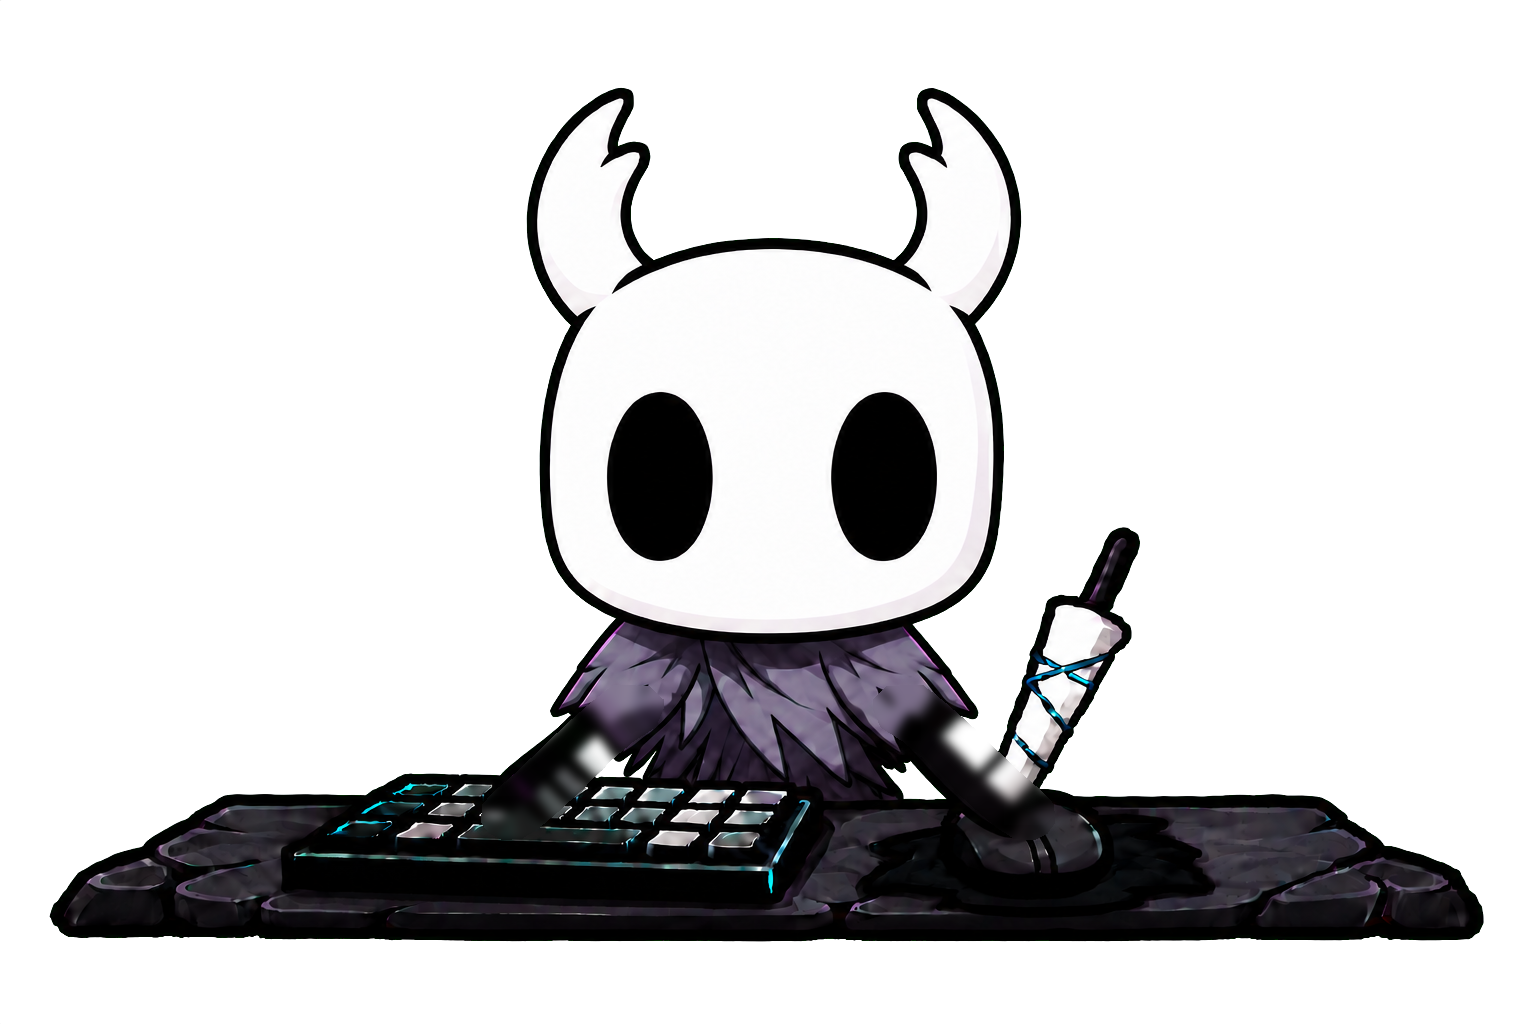
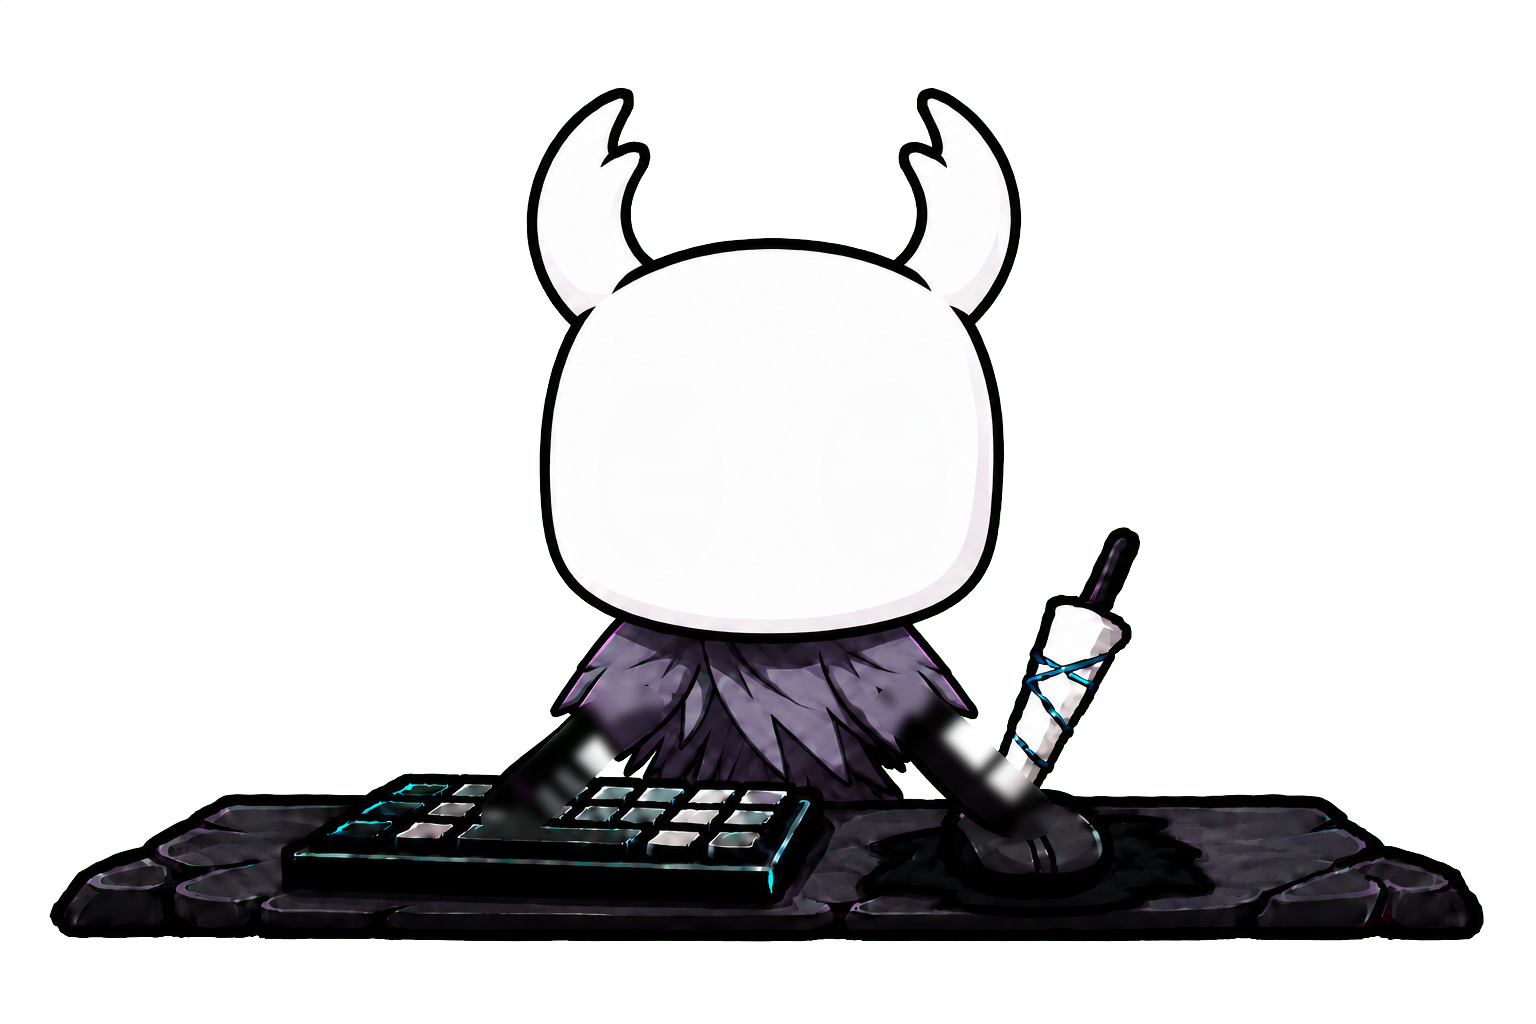
feat: add vessel blink and windows build

Changed region(s): [[0.375, 0.375, 0.4688, 0.5625], [0.5312, 0.375, 0.625, 0.5625]]

diff --git a/src/utils/spritePet.ts b/src/utils/spritePet.ts
@@ -15,6 +15,13 @@ interface SpriteLayerConfig {
   Pivot?: [number, number]
   Parameters?: string[]
   Pressed?: PressedTransform
+  Blink?: boolean
+}
+
+interface BlinkConfig {
+  Interval?: [number, number]
+  Duration?: number
+  ScaleY?: number
 }
 
 export interface SpritePetManifest {
@@ -28,6 +35,7 @@ export interface SpritePetManifest {
     Amplitude?: number
     Period?: number
   }
+  Blink?: BlinkConfig
   Layers: SpriteLayerConfig[]
 }
 
@@ -35,7 +43,8 @@ interface AnimatedLayer {
   sprite: Sprite
   pivot: [number, number]
   parameters: string[]
-  pressed: Required<PressedTransform>
+  pressed?: Required<PressedTransform>
+  blink: boolean
   amount: number
 }
 
@@ -59,6 +68,7 @@ export class SpritePet {
   private readonly parameters = new Map<string, number>()
   private readonly animatedLayers: AnimatedLayer[] = []
   private elapsed = 0
+  private nextBlinkAt = 0
 
   private constructor(
     private readonly manifest: SpritePetManifest,
@@ -66,6 +76,7 @@ export class SpritePet {
     this.width = manifest.Canvas.Width
     this.height = manifest.Canvas.Height
     this.root.addChild(this.content)
+    this.nextBlinkAt = this.randomBlinkInterval()
   }
 
   public static async create(path: string, manifest: SpritePetManifest) {
@@ -80,20 +91,20 @@ export class SpritePet {
       sprite.position.set(...pivot)
       pet.content.addChild(sprite)
 
-      if (!layer.Parameters?.length || !layer.Pressed) continue
-
-      for (const parameter of layer.Parameters) {
+      for (const parameter of layer.Parameters ?? []) {
         pet.parameters.set(parameter, 0)
       }
+
+      if (!layer.Pressed && !layer.Blink) continue
 
       pet.animatedLayers.push({
         sprite,
         pivot,
-        parameters: layer.Parameters,
-        pressed: {
-          ...DEFAULT_TRANSFORM,
-          ...layer.Pressed,
-        },
+        parameters: layer.Parameters ?? [],
+        pressed: layer.Pressed
+          ? { ...DEFAULT_TRANSFORM, ...layer.Pressed }
+          : undefined,
+        blink: layer.Blink ?? false,
         amount: 0,
       })
     }
@@ -105,9 +116,9 @@ export class SpritePet {
 
   private update = (ticker: Ticker) => {
     const deltaSeconds = ticker.deltaMS / 1000
-    const smoothing = 1 - Math.exp(-18 * deltaSeconds)
 
     this.elapsed += deltaSeconds
+    const blinkAmount = this.getBlinkAmount()
 
     const amplitude = this.manifest.Idle?.Amplitude ?? 0
     const period = this.manifest.Idle?.Period ?? 3
@@ -117,26 +128,52 @@ export class SpritePet {
       : 0
 
     for (const layer of this.animatedLayers) {
-      const target = Math.max(
-        ...layer.parameters.map(parameter => this.parameters.get(parameter) ?? 0),
-      )
+      const target = layer.parameters.length
+        ? Math.max(
+            ...layer.parameters.map(parameter => this.parameters.get(parameter) ?? 0),
+          )
+        : 0
+      const response = target > layer.amount ? 30 : 14
+      const smoothing = 1 - Math.exp(-response * deltaSeconds)
 
       layer.amount += (target - layer.amount) * smoothing
 
       const { sprite, pivot, pressed, amount } = layer
-      const [translateX, translateY] = pressed.Translate
-      const [scaleX, scaleY] = pressed.Scale
+      const [translateX, translateY] = pressed?.Translate ?? [0, 0]
+      const [scaleX, pressedScaleY] = pressed?.Scale ?? [1, 1]
+      const blinkScaleY = this.manifest.Blink?.ScaleY ?? 0.06
+      const scaleY = (1 + (pressedScaleY - 1) * amount)
+        * (layer.blink ? 1 + (blinkScaleY - 1) * blinkAmount : 1)
 
       sprite.position.set(
         pivot[0] + translateX * amount,
         pivot[1] + translateY * amount,
       )
-      sprite.rotation = pressed.Rotation * amount
+      sprite.rotation = (pressed?.Rotation ?? 0) * amount
       sprite.scale.set(
         1 + (scaleX - 1) * amount,
-        1 + (scaleY - 1) * amount,
+        scaleY,
       )
     }
+  }
+
+  private randomBlinkInterval() {
+    const [minimum, maximum] = this.manifest.Blink?.Interval ?? [3.2, 6.4]
+    return minimum + Math.random() * (maximum - minimum)
+  }
+
+  private getBlinkAmount() {
+    if (!this.manifest.Blink || this.elapsed < this.nextBlinkAt) return 0
+
+    const duration = this.manifest.Blink.Duration ?? 0.18
+    const progress = (this.elapsed - this.nextBlinkAt) / duration
+
+    if (progress >= 1) {
+      this.nextBlinkAt = this.elapsed + this.randomBlinkInterval()
+      return 0
+    }
+
+    return Math.sin(Math.PI * progress) ** 2
   }
 
   public getParameterValueRangeById(id: string) {

diff --git a/custom-models/vessel-live2d/scripts/build_sprite_model.py b/custom-models/vessel-live2d/scripts/build_sprite_model.py
@@ -2,8 +2,9 @@
 """Build the approved Vessel artwork into BongoCat's sprite-model format.
 
 The source artwork is intentionally kept as a single approved master.  This
-script derives the two independently animated arms, a repaired background, and
-an upper-body occluder without using any online background-removal service.
+script derives the two independently animated arms, two blinking eyes, a
+repaired background, and an upper-body occluder without using any online
+background-removal service.
 """
 
 from __future__ import annotations
@@ -56,6 +57,30 @@ def arm_masks() -> tuple[Image.Image, Image.Image]:
     ]
     right_points = [(CANVAS[0] - x, y) for x, y in left_points]
     return supersampled_polygon(left_points), supersampled_polygon(right_points)
+
+
+def eye_masks(source: Image.Image) -> tuple[Image.Image, Image.Image]:
+    """Extract both approved eye silhouettes, including antialiased edges."""
+    rgba = np.asarray(source)
+    luminance = rgba[..., :3].mean(axis=2)
+    opaque = rgba[..., 3] > 180
+    masks: list[Image.Image] = []
+
+    for x0, y0, x1, y1 in ((580, 360, 750, 590), (800, 360, 970, 590)):
+        candidate = (luminance[y0:y1, x0:x1] < 100) & opaque[y0:y1, x0:x1]
+        labels, _ = ndimage.label(candidate)
+        centre_label = labels[(476 - y0), (660 if x0 < 700 else 884) - x0]
+        if centre_label == 0:
+            raise ValueError("could not locate approved eye artwork")
+
+        component = labels == centre_label
+        component = ndimage.binary_dilation(component, iterations=2)
+        local = Image.fromarray((component * 255).astype(np.uint8), mode="L")
+        full = Image.new("L", CANVAS, 0)
+        full.paste(local, (x0, y0))
+        masks.append(full.filter(ImageFilter.GaussianBlur(0.7)))
+
+    return masks[0], masks[1]
 
 
 def apply_mask(source: Image.Image, mask: Image.Image) -> Image.Image:
@@ -151,7 +176,7 @@ def build_manifest() -> None:
         "Version": 1,
         "Name": "Vessel",
         "Canvas": {"Width": CANVAS[0], "Height": CANVAS[1]},
-        "Idle": {"Amplitude": 1.5, "Period": 3.2},
+        "Blink": {"Interval": [3.2, 6.4], "Duration": 0.18, "ScaleY": 0.06},
         "Layers": [
             {"Id": "base", "File": "layers/01_base.png"},
             {
@@ -181,6 +206,18 @@ def build_manifest() -> None:
                 },
             },
             {"Id": "foreground", "File": "layers/04_foreground.png"},
+            {
+                "Id": "left-eye",
+                "File": "layers/05_left_eye.png",
+                "Pivot": [660, 476],
+                "Blink": True,
+            },
+            {
+                "Id": "right-eye",
+                "File": "layers/06_right_eye.png",
+                "Pivot": [884, 476],
+                "Blink": True,
+            },
         ],
     }
     path = OUTPUT / "vessel.sprite.json"
@@ -193,17 +230,28 @@ def main() -> None:
         raise ValueError(f"expected {CANVAS}, got {source.size}")
 
     left_mask, right_mask = arm_masks()
+    left_eye_mask, right_eye_mask = eye_masks(source)
+    eyes = ImageChops.lighter(left_eye_mask, right_eye_mask)
+    eye_removal = eyes.filter(ImageFilter.MaxFilter(15))
+    source_without_eyes = nearest_fill(source, eye_removal)
     removal = ImageChops.lighter(left_mask, right_mask).filter(ImageFilter.MaxFilter(9))
 
-    base = nearest_fill(source, removal)
+    base = nearest_fill(source_without_eyes, removal)
     left_arm = apply_mask(source, left_mask)
     right_arm = apply_mask(source, right_mask)
-    foreground = apply_mask(source, foreground_mask(left_mask, right_mask))
+    foreground = apply_mask(
+        source_without_eyes,
+        foreground_mask(left_mask, right_mask),
+    )
+    left_eye = apply_mask(source, left_eye_mask)
+    right_eye = apply_mask(source, right_eye_mask)
 
     save_png(base, OUTPUT / "layers" / "01_base.png")
     save_png(left_arm, OUTPUT / "layers" / "02_left_arm.png")
     save_png(right_arm, OUTPUT / "layers" / "03_right_arm.png")
     save_png(foreground, OUTPUT / "layers" / "04_foreground.png")
+    save_png(left_eye, OUTPUT / "layers" / "05_left_eye.png")
+    save_png(right_eye, OUTPUT / "layers" / "06_right_eye.png")
     build_cover(source)
     build_key_resources()
     build_manifest()

diff --git a/custom-models/vessel-live2d/scripts/build_action_preview.py b/custom-models/vessel-live2d/scripts/build_action_preview.py
@@ -54,18 +54,23 @@ def ease(value: float) -> float:
     return value * value * (3 - 2 * value)
 
 
-def amounts() -> list[tuple[float, float]]:
-    frames: list[tuple[float, float]] = [(0, 0)] * 8
+def amounts() -> list[tuple[float, float, float]]:
+    frames: list[tuple[float, float, float]] = [(0, 0, 0)] * 8
+
+    for index in range(9):
+        blink = math.sin(math.pi * index / 8) ** 2
+        frames.append((0, 0, blink))
+    frames.extend([(0, 0, 0)] * 6)
 
     def tap(left: bool, right: bool) -> None:
         for index in range(6):
             value = ease((index + 1) / 6)
-            frames.append((value if left else 0, value if right else 0))
-        frames.extend([(1 if left else 0, 1 if right else 0)] * 4)
+            frames.append((value if left else 0, value if right else 0, 0))
+        frames.extend([(1 if left else 0, 1 if right else 0, 0)] * 4)
         for index in range(8):
             value = 1 - ease((index + 1) / 8)
-            frames.append((value if left else 0, value if right else 0))
-        frames.extend([(0, 0)] * 5)
+            frames.append((value if left else 0, value if right else 0, 0))
+        frames.extend([(0, 0, 0)] * 5)
 
     tap(left=True, right=False)
     tap(left=False, right=True)
@@ -81,9 +86,11 @@ def main() -> None:
     left = Image.open(MODEL / layers["left-arm"]["File"]).convert("RGBA")
     right = Image.open(MODEL / layers["right-arm"]["File"]).convert("RGBA")
     foreground = Image.open(MODEL / layers["foreground"]["File"]).convert("RGBA")
+    left_eye = Image.open(MODEL / layers["left-eye"]["File"]).convert("RGBA")
+    right_eye = Image.open(MODEL / layers["right-eye"]["File"]).convert("RGBA")
 
     rendered: list[Image.Image] = []
-    for left_amount, right_amount in amounts():
+    for left_amount, right_amount, blink_amount in amounts():
         frame = base.copy()
         frame.alpha_composite(
             transform_layer(
@@ -102,6 +109,26 @@ def main() -> None:
             )
         )
         frame.alpha_composite(foreground)
+        blink_scale = float(manifest["Blink"]["ScaleY"])
+        eye_transform = {
+            "Scale": [1, 1 + (blink_scale - 1) * blink_amount],
+        }
+        frame.alpha_composite(
+            transform_layer(
+                left_eye,
+                tuple(layers["left-eye"]["Pivot"]),
+                eye_transform,
+                1,
+            )
+        )
+        frame.alpha_composite(
+            transform_layer(
+                right_eye,
+                tuple(layers["right-eye"]["Pivot"]),
+                eye_transform,
+                1,
+            )
+        )
 
         preview = Image.new("RGB", CANVAS, "#f3f5f9")
         preview.paste(frame, mask=frame.getchannel("A"))

diff --git a/custom-models/vessel-live2d/scripts/validate_sprite_model.py b/custom-models/vessel-live2d/scripts/validate_sprite_model.py
@@ -25,6 +25,7 @@ def require(condition: bool, message: str) -> None:
 def main() -> None:
     data = json.loads(MANIFEST.read_text())
     require(data["Version"] == 1, "unsupported sprite manifest version")
+    require("Blink" in data, "blink timing is not configured")
 
     canvas = (data["Canvas"]["Width"], data["Canvas"]["Height"])
     require(canvas == (1536, 1024), f"unexpected canvas: {canvas}")
@@ -51,6 +52,8 @@ def main() -> None:
         required_parameters <= parameter_names,
         f"missing parameters: {sorted(required_parameters - parameter_names)}",
     )
+    blink_layers = [layer for layer in data["Layers"] if layer.get("Blink")]
+    require(len(blink_layers) == 2, "both eye layers must share the blink action")
 
     left_keys = list((MODEL / "resources" / "left-keys").glob("*.png"))
     right_keys = list((MODEL / "resources" / "right-keys").glob("*.png"))
@@ -71,7 +74,7 @@ def main() -> None:
 
     print(
         "Vessel sprite model OK: "
-        f"{len(data['Layers'])} layers, "
+        f"{len(data['Layers'])} layers with synced blink, "
         f"{len(left_keys) + len(right_keys)} key mappings, "
         f"{changed_ratio:.3%} rest-pose pixel drift"
     )

diff --git a/custom-models/vessel-live2d/README.md b/custom-models/vessel-live2d/README.md
@@ -20,6 +20,13 @@ python3 custom-models/vessel-live2d/scripts/validate_sprite_model.py
 The generated, application-ready model is written to
 `src-tauri/assets/models/vessel/`.
 
+## Windows installer
+
+Run the `Build Vessel for Windows` workflow manually in GitHub Actions. It
+validates the committed model, type-checks the frontend, builds the Tauri NSIS
+bundle, and uploads the unsigned x64 installer as the
+`vessel-bongocat-windows-x64` artifact.
+
 ## Runtime format
 
 The upstream application normally loads Cubism `.moc3` models. Cubism's model
@@ -27,12 +34,14 @@ compiler is proprietary, so this fork also accepts a layered `.sprite.json`
 model. Existing `.model3.json` models continue to use the original Live2D
 loader without any change.
 
-The Vessel package contains four aligned 1536 x 1024 transparent layers:
+The Vessel package contains six aligned 1536 x 1024 transparent layers:
 
 1. repaired static base;
 2. left arm;
 3. right arm;
-4. head-and-cloak foreground occluder.
+4. head-and-cloak foreground occluder;
+5. left eye;
+6. right eye.
 
 The standard BongoCat parameter names are retained:
 
@@ -40,7 +49,8 @@ The standard BongoCat parameter names are retained:
 - `CatParamRightHandDown`: right-side keyboard input;
 - `ParamMouseLeftDown` and `ParamMouseRightDown`: mouse input.
 
-Only a subtle arm press and smooth return are enabled for the first version.
+The current action set uses a snappy press with a softer return plus a subtle,
+randomised synchronized blink. The approved rest pose remains unchanged.
 Expressions and additional motions can be added to the same manifest later.
 
 ## Artwork note
